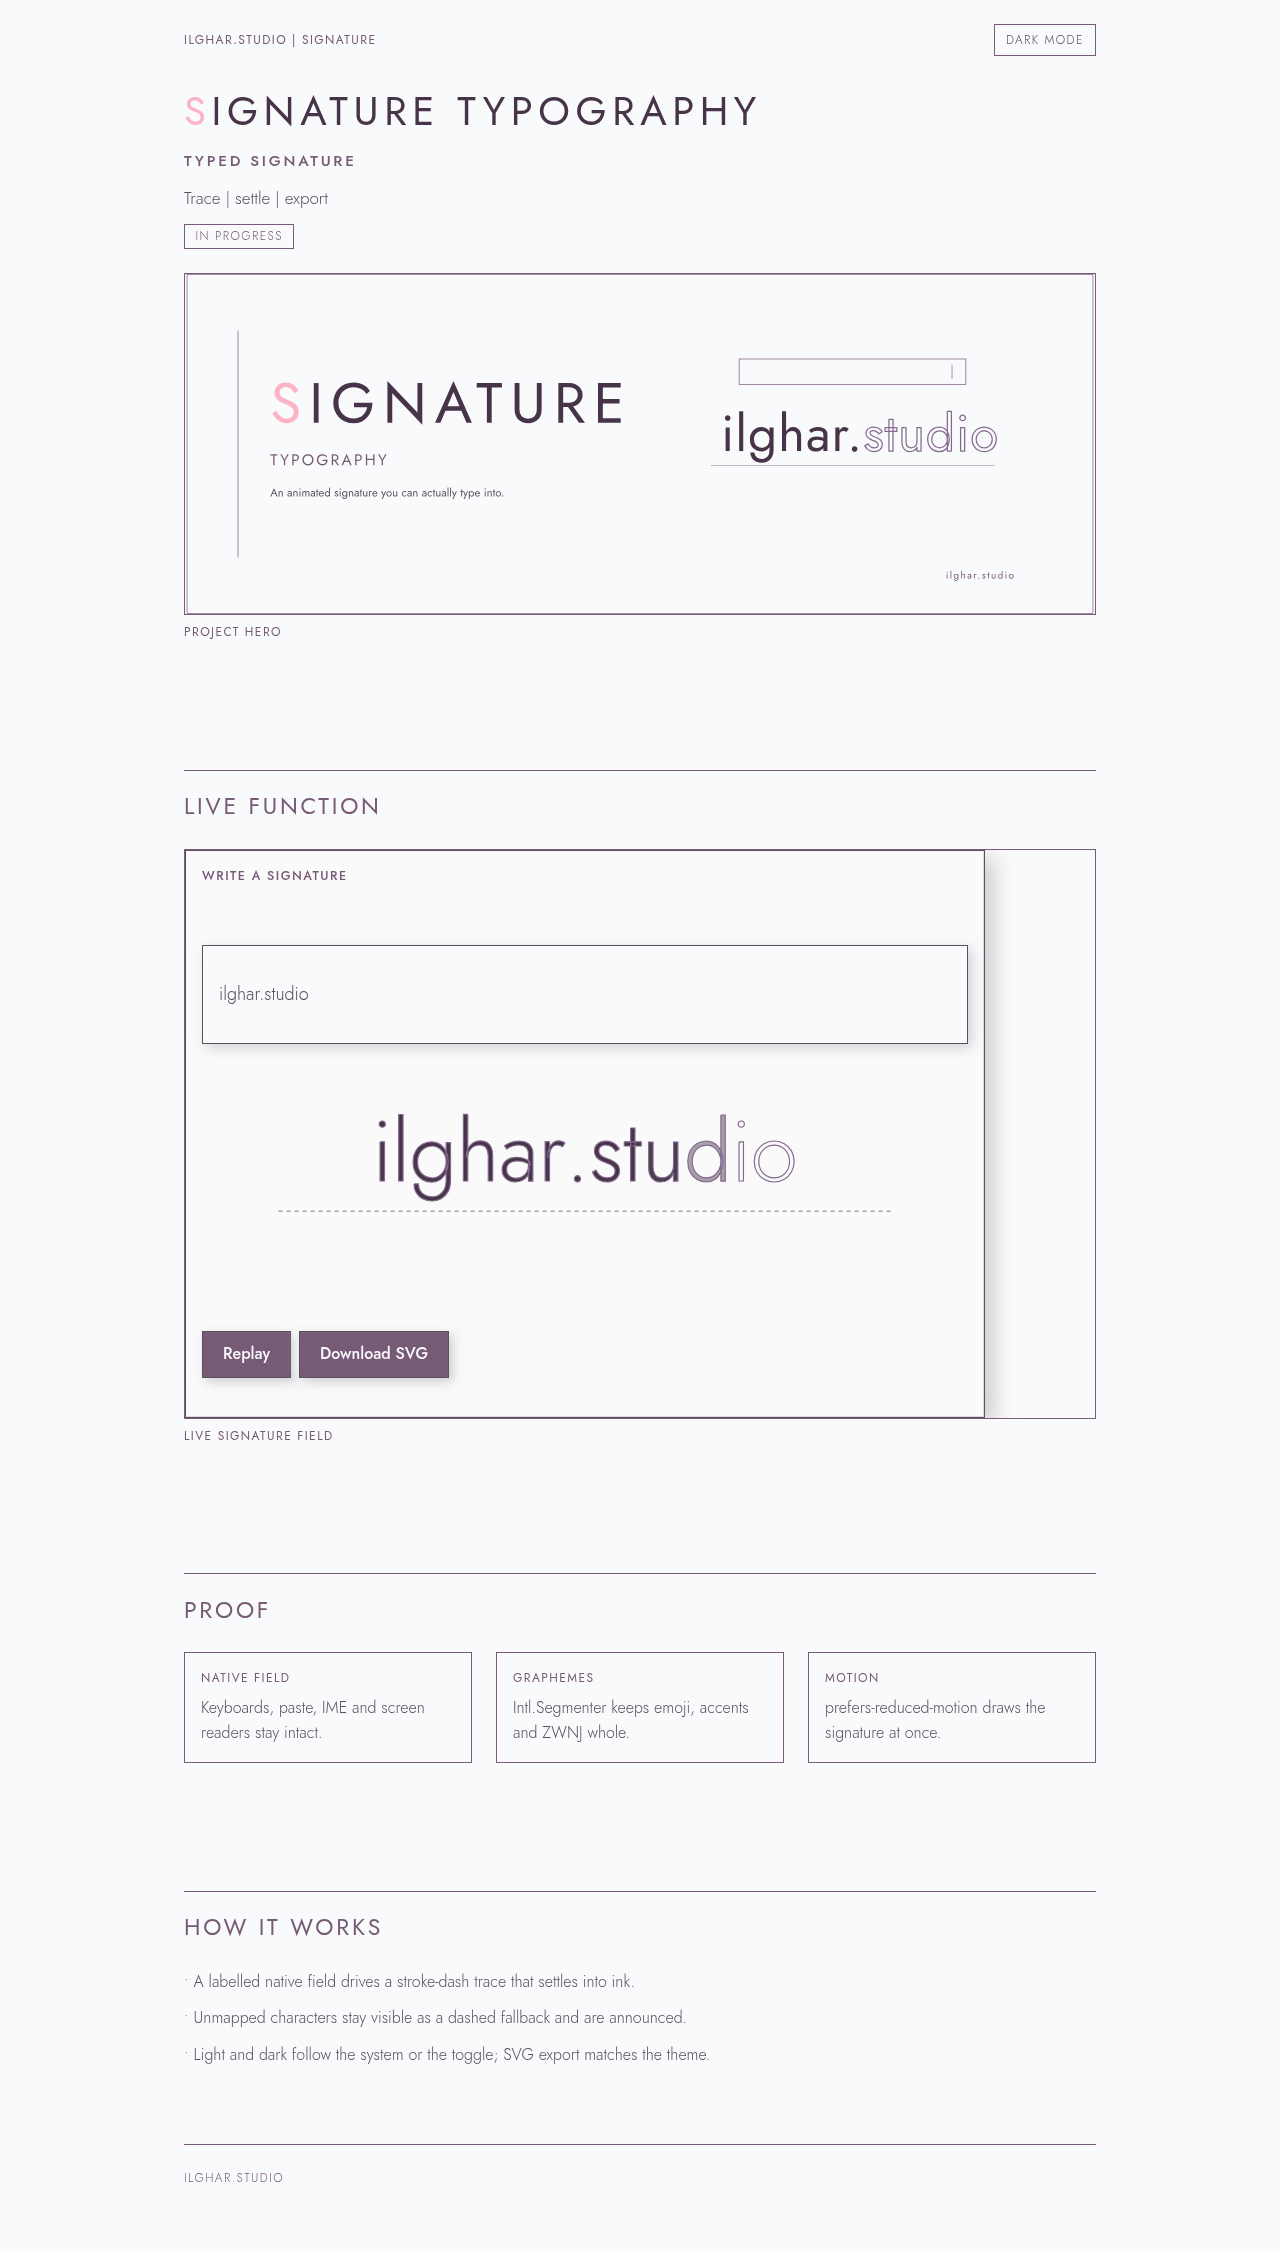
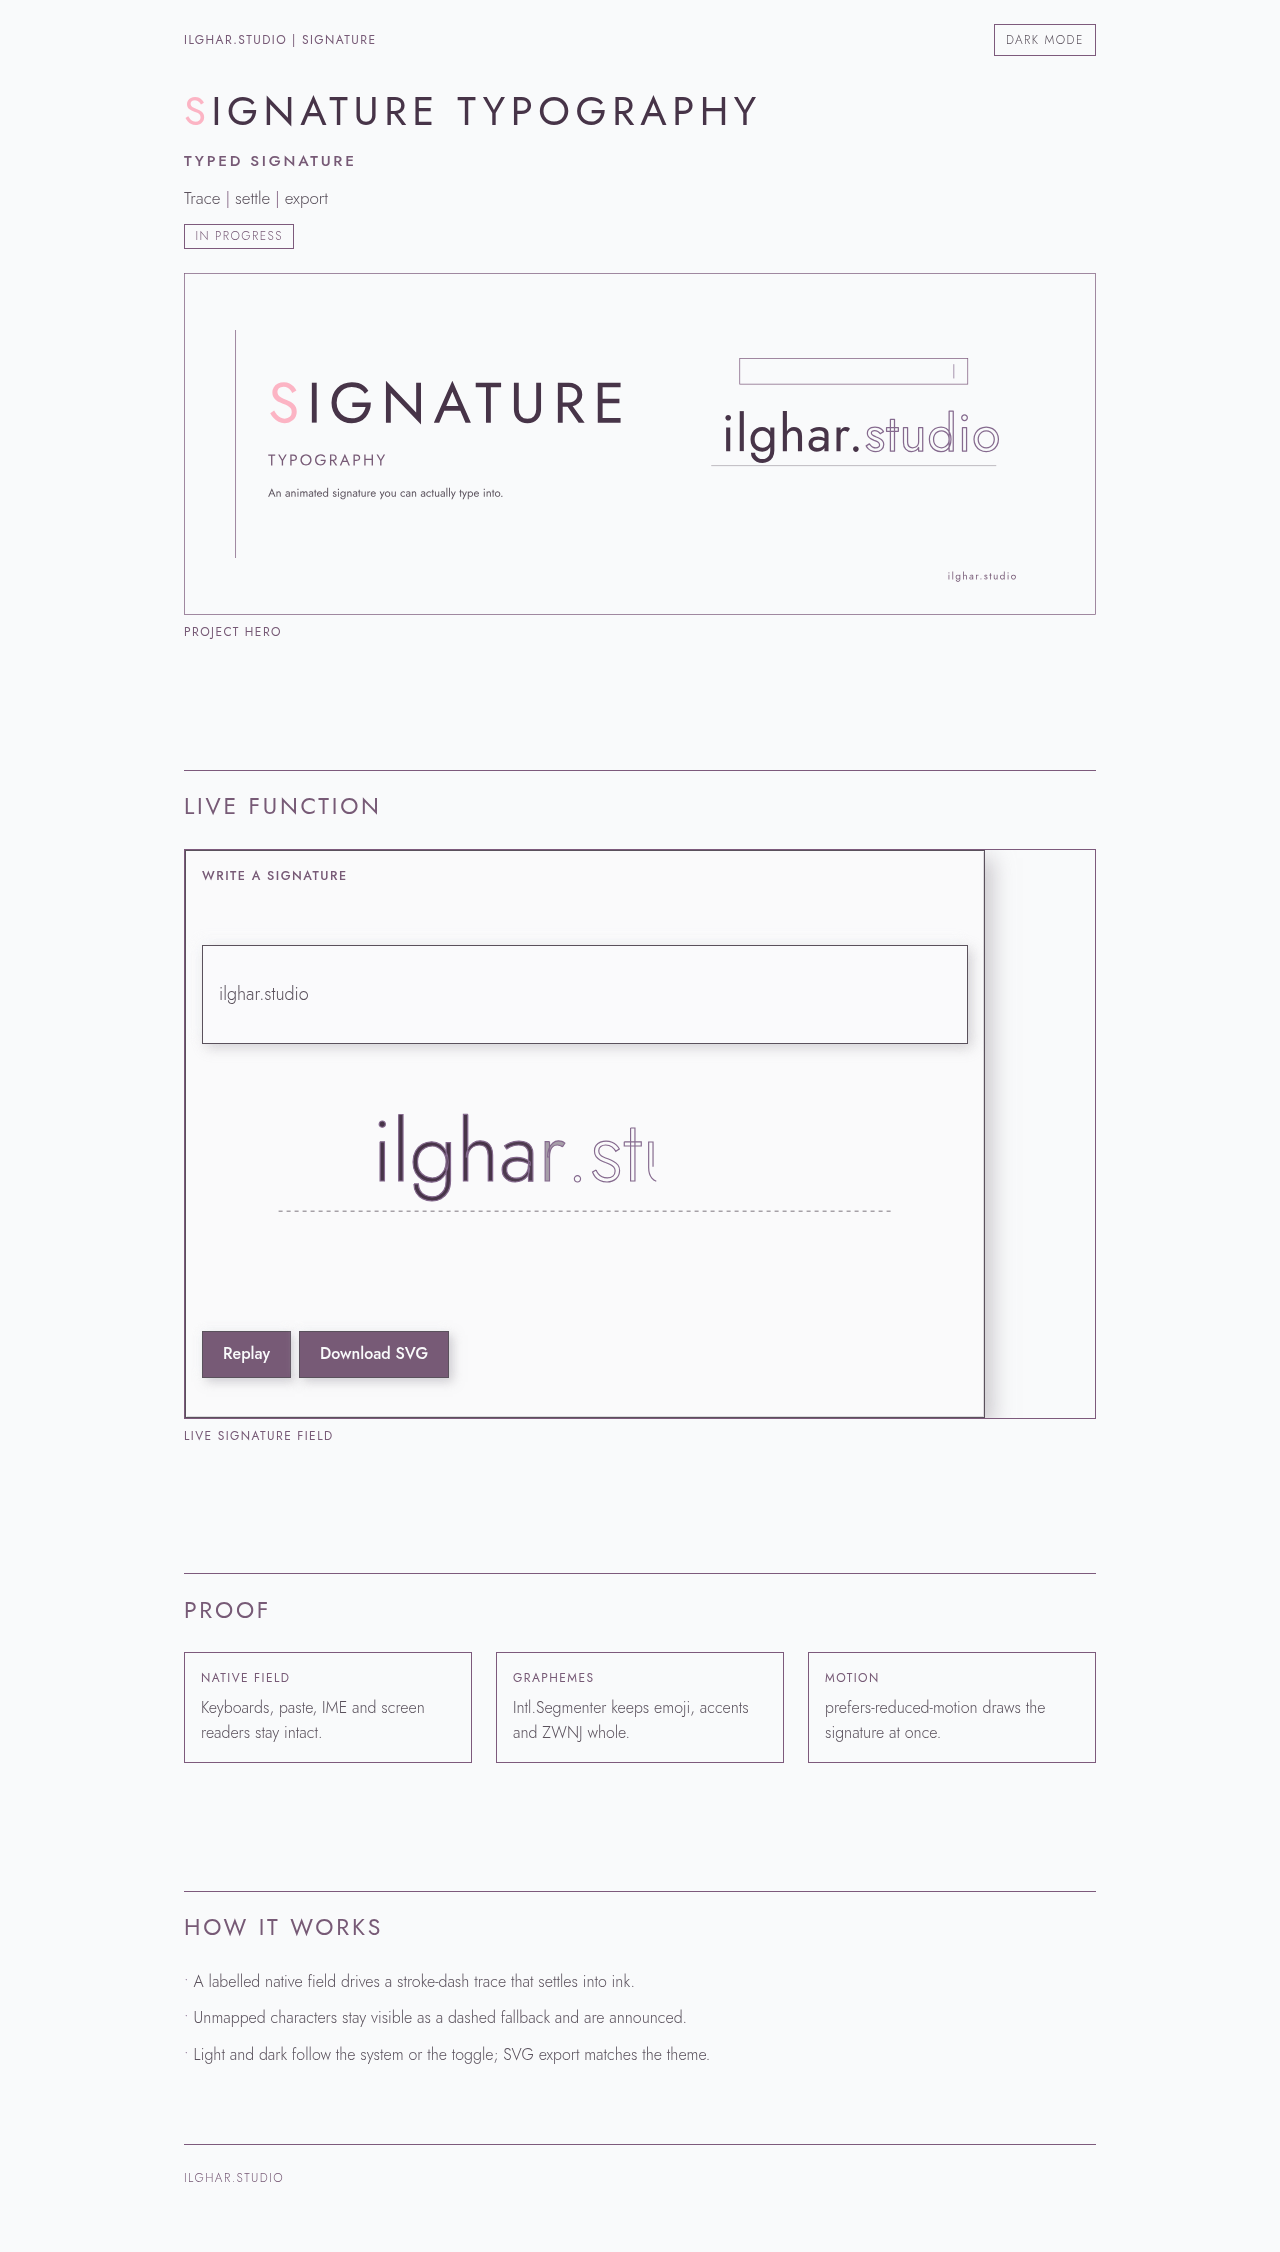
fix(pages): drop outer .frame around hero SVGs (keep 8:3 + caption)
Hero art uses .hero-art (aspect-ratio 8/3, no border). SVG keeps its own
edge. Captions unchanged. Reshoot 1280/390 light+dark from published root.

diff --git a/site/index.html b/site/index.html
@@ -29,8 +29,7 @@
 }
 .frame.r1610 .live .sig{max-width:none;width:100%;box-sizing:border-box}
 
-/* hero picture fill — Proto 8:3, no letterbox */
-.frame.r83 picture,.frame.r83 img{width:100%;height:100%;object-fit:fill;display:block;border-radius:0}
+/* hero art sized by pages-shell .hero-art (8:3, no outer frame) */
 </style>
 </head>
 <body>
@@ -48,12 +47,10 @@
   </header>
 
   <figure class="span12">
-    <div class="frame r83">
-      <picture>
+    <picture class="hero-art">
         <source media="(prefers-color-scheme: dark)" srcset="hero/hero-dark.svg">
-        <img src="hero/hero-light.svg" width="1280" height="480" alt="SIGNATURE / TYPOGRAPHY — An animated signature you can actually type into." style="width:100%;height:100%;object-fit:fill;display:block;border-radius:0;">
+        <img src="hero/hero-light.svg" width="1280" height="480" alt="SIGNATURE / TYPOGRAPHY — An animated signature you can actually type into.">
       </picture>
-    </div>
     <figcaption>Project hero</figcaption>
   </figure>
   <section class="span12" aria-label="Live function">

diff --git a/site/pages-shell.css b/site/pages-shell.css
@@ -77,3 +77,9 @@ footer{margin-top:64px;padding-top:24px;border-top:1px solid var(--line);font-si
 .ilg-frame{border:1px solid var(--line);border-radius:0;box-shadow:none;background:var(--bg);padding:0;overflow:hidden;width:100%}
 .board{margin:0}
 .board img,.board picture{border-radius:0;box-shadow:none!important}
+
+/* hero art: SVG has its own border — no outer .frame */
+.hero-art{display:block;width:100%;max-width:100%;aspect-ratio:8/3;margin:0;padding:0;border:0!important;outline:0;overflow:hidden;background:transparent;border-radius:0;box-shadow:none;position:relative}
+.hero-art img{position:absolute;inset:0;display:block;width:100%!important;height:100%!important;max-height:none;object-fit:fill;border:0;border-radius:0}
+figure.span12 > .hero-art, figure.hero > .hero-art{width:100%}
+
